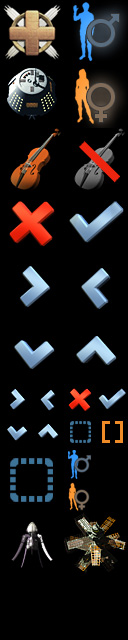
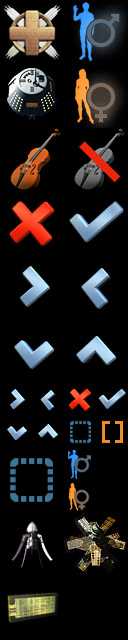
Added keyboard mapping button to intro

Changed region(s): [[0.0625, 0.9062, 0.4375, 1.0]]

diff --git a/Transcendence/CIntroSession.cpp b/Transcendence/CIntroSession.cpp
@@ -14,6 +14,7 @@
 #define CMD_OPEN_NEWS							CONSTLIT("cmdOpenNews")
 #define CMD_SHOW_MOD_EXCHANGE					CONSTLIT("cmdShowModExchange")
 #define CMD_SHOW_PROFILE						CONSTLIT("cmdShowProfile")
+#define CMD_SHOW_SETTINGS						CONSTLIT("cmdShowSettings")
 #define CMD_SIGN_OUT							CONSTLIT("cmdSignOut")
 #define CMD_SOUNDTRACK_NOW_PLAYING				CONSTLIT("cmdSoundtrackNowPlaying")
 #define CMD_TOGGLE_DEBUG						CONSTLIT("cmdToggleDebug")
@@ -30,6 +31,7 @@
 #define CMD_UI_SHOW_LOGIN						CONSTLIT("uiShowLogin")
 #define CMD_UI_SHOW_MOD_EXCHANGE				CONSTLIT("uiShowModExchange")
 #define CMD_UI_SHOW_PROFILE						CONSTLIT("uiShowProfile")
+#define CMD_UI_SHOW_SETTINGS					CONSTLIT("uiShowSettings")
 #define CMD_UI_SIGN_OUT							CONSTLIT("uiSignOut")
 
 #define ID_GAME_STAT_PERFORMANCE				CONSTLIT("gameStatPerformance")
@@ -955,6 +957,9 @@ ALERROR CIntroSession::OnCommand (const CString &sCmd, void *pData)
 	else if (strEquals(sCmd, CMD_SHOW_MOD_EXCHANGE))
 		m_HI.HICommand(CMD_UI_SHOW_MOD_EXCHANGE);
 
+	else if (strEquals(sCmd, CMD_SHOW_SETTINGS))
+		m_HI.HICommand(CMD_UI_SHOW_SETTINGS);
+
 	else if (strEquals(sCmd, CMD_CHANGE_PASSWORD))
 		m_HI.HICommand(CMD_UI_CHANGE_PASSWORD);
 
@@ -1117,10 +1122,6 @@ void CIntroSession::OnKeyDown (int iVirtKey, DWORD dwKeyData)
 			case VK_F2:
 				m_HI.HICommand(CONSTLIT("uiShowGameStats"));
 				break;
-
-            case VK_F3:
-                m_HI.HICommand(CONSTLIT("uiShowSettings"));
-                break;
 
             case VK_F11:
                 SetExpanded(!m_bExpanded);

diff --git a/Transcendence/IntroScreen.cpp b/Transcendence/IntroScreen.cpp
@@ -59,6 +59,7 @@ const int NEWS_PANE_INNER_SPACING_Y =			8;
 #define CMD_OPEN_NEWS							CONSTLIT("cmdOpenNews")
 #define CMD_SHOW_MOD_EXCHANGE					CONSTLIT("cmdShowModExchange")
 #define CMD_SHOW_PROFILE						CONSTLIT("cmdShowProfile")
+#define CMD_SHOW_SETTINGS						CONSTLIT("cmdShowSettings")
 #define CMD_SIGN_OUT							CONSTLIT("cmdSignOut")
 #define CMD_TOGGLE_DEBUG						CONSTLIT("cmdToggleDebug")
 #define CMD_TOGGLE_MUSIC						CONSTLIT("cmdToggleMusic")
@@ -66,11 +67,6 @@ const int NEWS_PANE_INNER_SPACING_Y =			8;
 #define CMD_SERVICE_NEWS_LOADED					CONSTLIT("serviceNewsLoaded")
 
 //	These are commands that we send to the Controller
-#define CMD_UI_CHANGE_PASSWORD					CONSTLIT("uiChangePassword")
-#define CMD_UI_SHOW_LOGIN						CONSTLIT("uiShowLogin")
-#define CMD_UI_SHOW_MOD_EXCHANGE				CONSTLIT("uiShowModExchange")
-#define CMD_UI_SHOW_PROFILE						CONSTLIT("uiShowProfile")
-#define CMD_UI_SIGN_OUT							CONSTLIT("uiSignOut")
 
 #define EVENT_ON_CLICK							CONSTLIT("onClick")
 
@@ -567,6 +563,13 @@ void CTranscendenceWnd::CreatePlayerBarAnimation (IAnimatron **retpAni)
 
 		x -= (BUTTON_WIDTH + PADDING_LEFT);
 		}
+
+    //  Keyboard settings
+
+	VI.CreateImageButton(pRoot, CMD_SHOW_SETTINGS, x, (TITLE_BAR_HEIGHT - BUTTON_HEIGHT) / 2, &VI.GetImage(imageSettingsIcon), CONSTLIT("Keyboard Settings"), 0, &pButton);
+	pButton->AddListener(EVENT_ON_CLICK, m_pIntroSession, CMD_SHOW_SETTINGS);
+
+	x -= (BUTTON_WIDTH + PADDING_LEFT);
 
 	//	Music toggle
 

diff --git a/Transcendence/CTranscendenceWnd.cpp b/Transcendence/CTranscendenceWnd.cpp
@@ -2052,10 +2052,6 @@ LONG CTranscendenceWnd::WMKeyDown (int iVirtKey, DWORD dwKeyData)
 								g_pHI->HICommand(CONSTLIT("uiShowGameStats"));
 								break;
 
-                            case VK_F3:
-                                g_pHI->HICommand(CONSTLIT("uiShowSettings"));
-                                break;
-
 							default:
 								{
 								//	Let the dock screen handle it.
